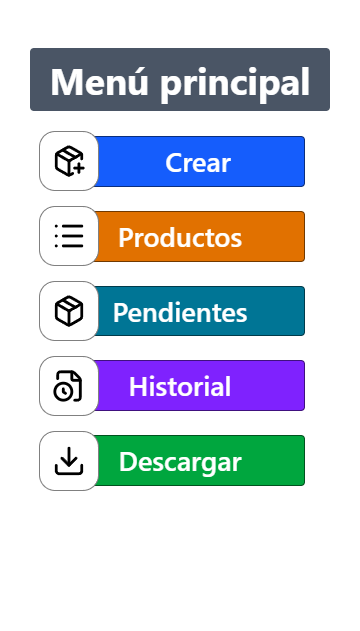
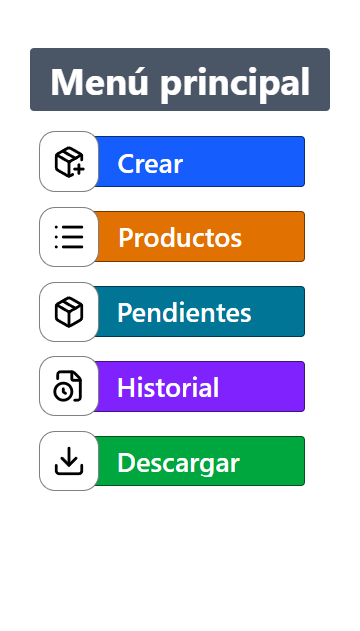
Corección de screenshots

diff --git a/src/pages/Aplication.tsx b/src/pages/Aplication.tsx
@@ -17,7 +17,7 @@ export const Aplication = () => {
         Menú principal
       </h1>
 
-      <div className="flex flex-col items-center gap-6">
+      <div className="flex flex-col gap-6">
         <Link to="/create" className="relative flex items-center">
           <PackagePlus
             size={60}
@@ -28,10 +28,10 @@ export const Aplication = () => {
             className={cn(
               "bg-blue-600",
               button,
-              "pl-14" // espacio para que el texto no quede debajo del ícono
+              "pr-20" // espacio para que el texto no quede debajo del ícono
             )}
           >
-            <span className="mx-auto">Crear</span>
+            Crear
           </Button>
         </Link>
 
@@ -44,7 +44,7 @@ export const Aplication = () => {
           <Button className={cn(
             "bg-amber-600",
             button,
-            "pl-5" // espacio para que el texto no quede debajo del ícono
+            "pl-5"// espacio para que el texto no quede debajo del ícono
           )}>
             Productos
           </Button>
@@ -59,7 +59,7 @@ export const Aplication = () => {
           <Button className={cn(
             "bg-cyan-700",
             button,
-            "pl-5" // espacio para que el texto no quede debajo del ícono
+            "pl-7"// espacio para que el texto no quede debajo del ícono
           )}>
             Pendientes
           </Button>
@@ -74,7 +74,7 @@ export const Aplication = () => {
           <Button className={cn(
             "bg-violet-600",
             button,
-            "pl-5" // espacio para que el texto no quede debajo del ícono
+            "pr-11"
           )}>
             Historial
           </Button>
@@ -89,7 +89,7 @@ export const Aplication = () => {
           <Button className={cn(
             "bg-green-600",
             button,
-            "pl-5" // espacio para que el texto no quede debajo del ícono
+            "pr-6"
           )}>
             Descargar
           </Button>
